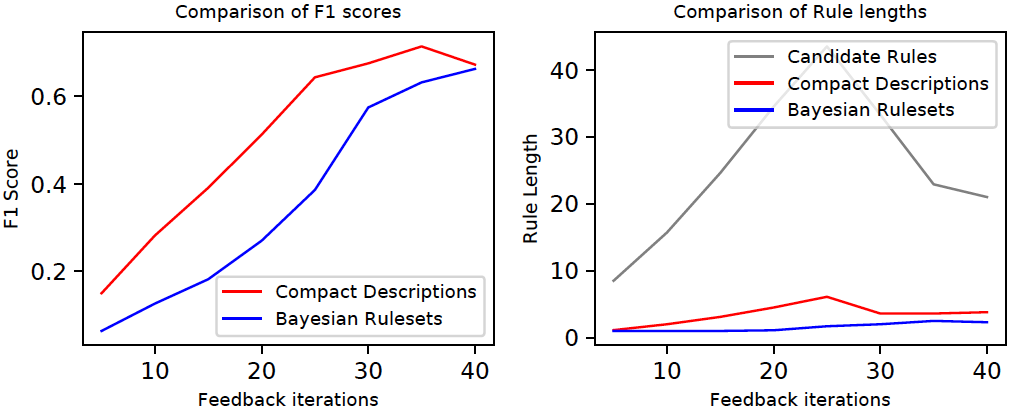
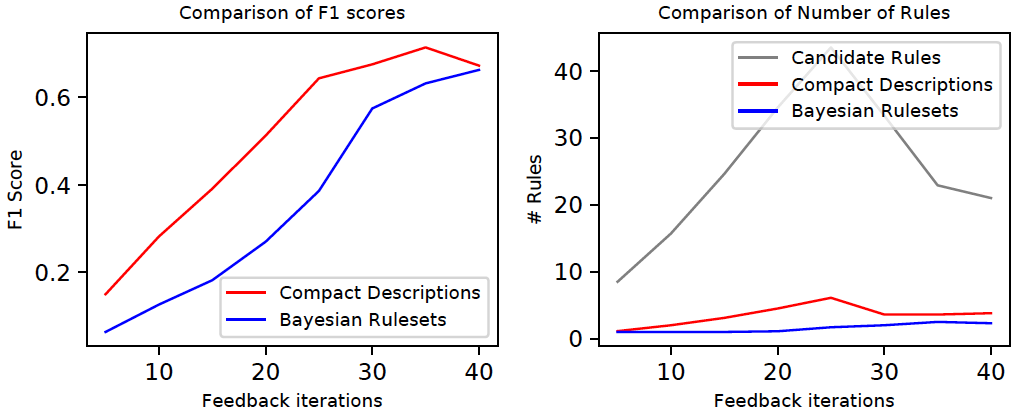
added ruleset comparisons

diff --git a/python/aad/analyze_rules.py b/python/aad/analyze_rules.py
@@ -146,8 +146,8 @@ def analyze_rules():
         legend_handles = []
         pl = dp.get_next_plot()
         plt.xlabel('Feedback iterations', fontsize=8)
-        plt.ylabel('Rule Length', fontsize=8)
-        plt.title("Comparison of Rule lengths", fontsize=8)
+        plt.ylabel('# Rules', fontsize=8)
+        plt.title("Comparison of Number of Rules", fontsize=8)
 
         ln, = pl.plot(agg_top["lengths"][:, 0], agg_top["lengths"][:, 1],
                       "-", color="grey", linewidth=1, label="Candidate Rules")
